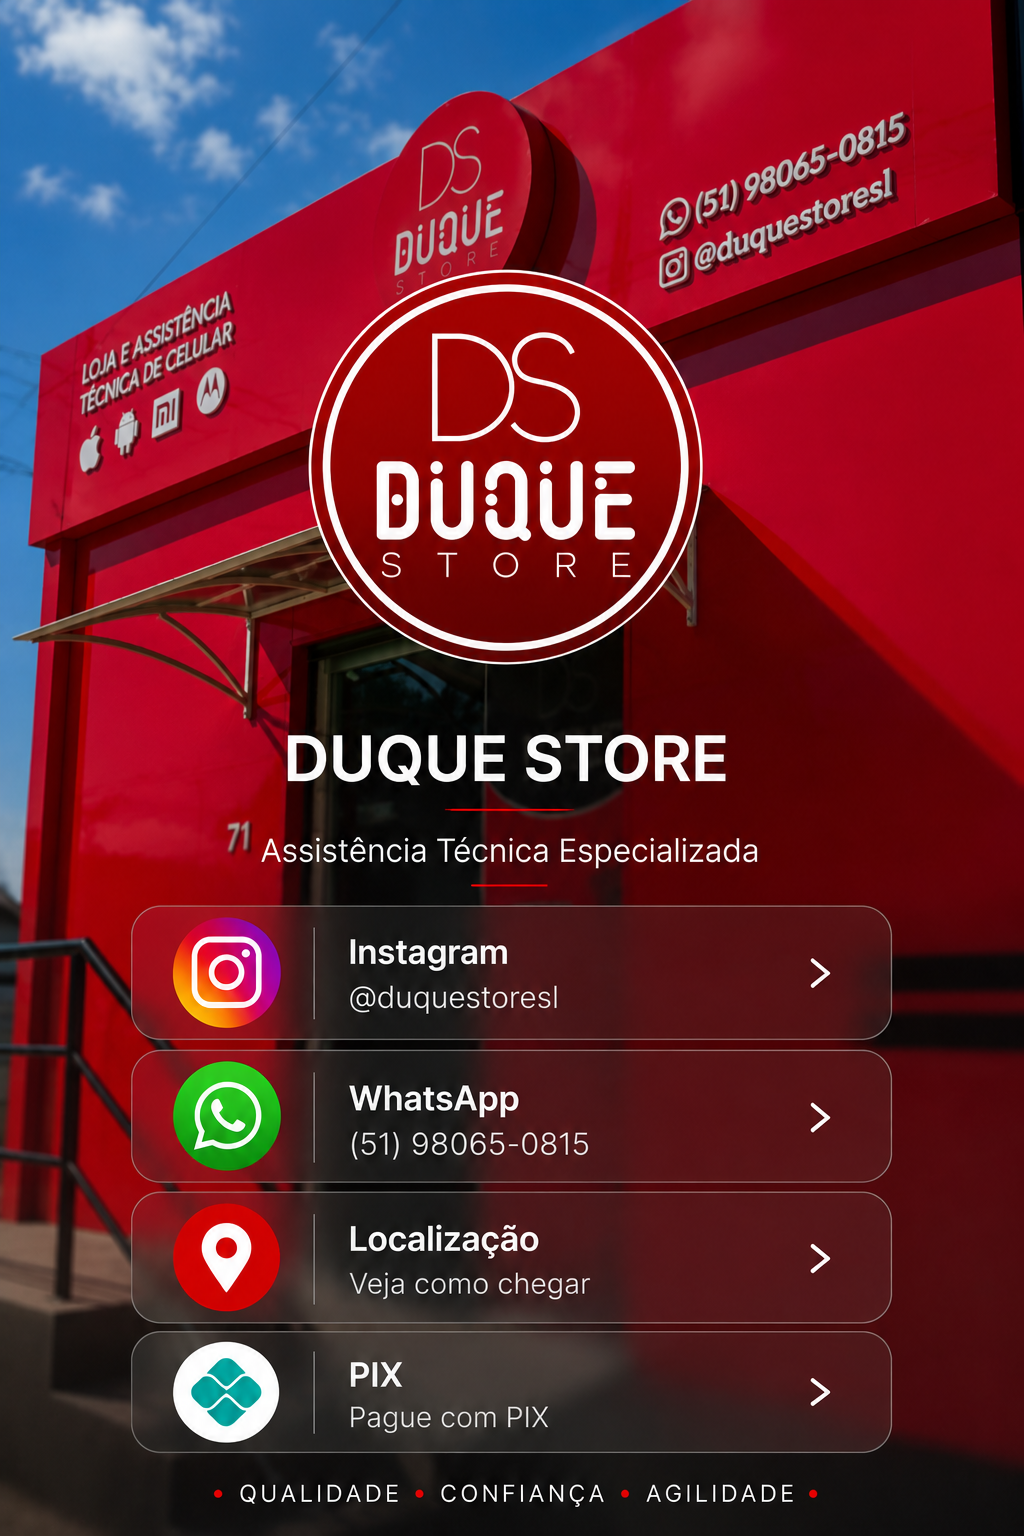
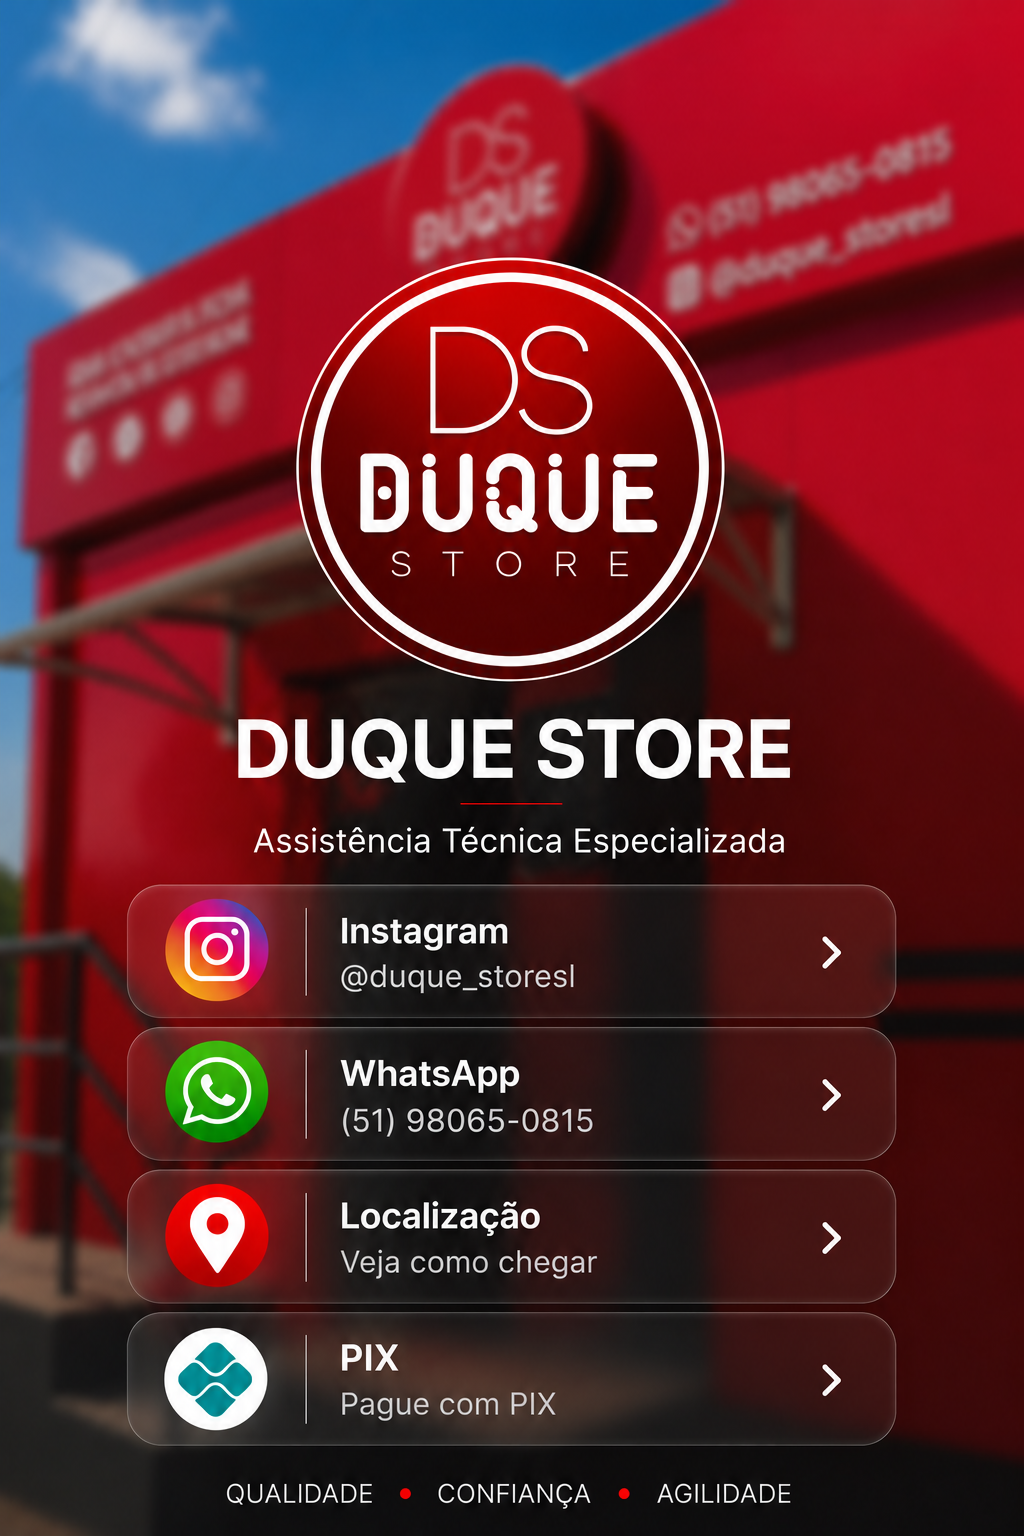
Add files via upload

diff --git a/index.html b/index.html
@@ -3,7 +3,7 @@
 <head>
   <meta charset="UTF-8">
   <meta name="viewport" content="width=device-width, initial-scale=1, viewport-fit=cover">
-  <meta name="theme-color" content="#a4000f">
+  <meta name="theme-color" content="#9d0011">
   <meta name="description" content="Cartão virtual da Duque Store">
   <title>Duque Store</title>
 
@@ -16,7 +16,7 @@
     html, body {
       margin: 0;
       min-height: 100%;
-      background: #100002;
+      background: #120003;
       font-family: Arial, Helvetica, sans-serif;
     }
 
@@ -26,7 +26,7 @@
       align-items: flex-start;
     }
 
-    .cartao {
+    .card {
       position: relative;
       width: min(100vw, 768px);
       overflow: hidden;
@@ -34,109 +34,86 @@
       box-shadow: 0 0 45px rgba(0,0,0,.55);
     }
 
-    .cartao img {
+    .card img {
+      display: block;
       width: 100%;
       height: auto;
-      display: block;
       user-select: none;
       -webkit-user-drag: none;
     }
 
-    .botao {
+    .hotspot {
       position: absolute;
-      left: 12.8%;
-      width: 74.4%;
+      left: 12.3%;
+      width: 75.4%;
       border-radius: 24px;
-      cursor: pointer;
       text-decoration: none;
+      cursor: pointer;
       outline: none;
     }
 
-    .botao:focus-visible {
-      box-shadow: 0 0 0 4px rgba(255,255,255,.95);
+    .hotspot:hover {
+      background: rgba(255,255,255,.05);
     }
 
-    .botao:active {
-      background: rgba(255,255,255,.10);
+    .hotspot:active {
+      background: rgba(255,255,255,.12);
     }
 
-    /* Áreas clicáveis alinhadas aos quatro cartões */
-    .instagram { top: 59.1%; height: 9.1%; }
-    .whatsapp  { top: 68.6%; height: 9.1%; }
-    .local     { top: 78.0%; height: 9.1%; }
-    .pix       { top: 87.4%; height: 8.6%; }
-
-    .aviso {
-      position: fixed;
-      left: 50%;
-      bottom: 18px;
-      transform: translateX(-50%) translateY(20px);
-      background: rgba(0,0,0,.88);
-      color: white;
-      padding: 11px 16px;
-      border-radius: 999px;
-      font-size: 14px;
-      opacity: 0;
-      pointer-events: none;
-      transition: .2s ease;
-      z-index: 10;
-      white-space: nowrap;
+    .hotspot:focus-visible {
+      box-shadow: inset 0 0 0 4px rgba(255,255,255,.95);
     }
 
-    .aviso.mostrar {
-      opacity: 1;
-      transform: translateX(-50%) translateY(0);
-    }
+    /* Áreas clicáveis alinhadas com os quatro botões da arte */
+    .instagram { top: 57.55%; height: 8.55%; }
+    .whatsapp  { top: 66.65%; height: 8.55%; }
+    .location  { top: 75.75%; height: 8.65%; }
+    .pix       { top: 84.95%; height: 8.60%; }
 
     @media (min-width: 769px) {
       body {
         padding: 24px 0;
       }
 
-      .cartao {
+      .card {
         border-radius: 24px;
       }
     }
   </style>
 </head>
-
 <body>
-  <main class="cartao" aria-label="Cartão virtual Duque Store">
+  <main class="card" aria-label="Cartão virtual da Duque Store">
     <img src="cartao-duque-store.png" alt="Cartão virtual da Duque Store">
 
-    <a class="botao instagram"
-       href="https://www.instagram.com/duquestoresl/"
-       target="_blank"
-       rel="noopener noreferrer"
-       aria-label="Abrir Instagram da Duque Store"></a>
+    <a
+      class="hotspot instagram"
+      href="https://www.instagram.com/duque_storesl/"
+      target="_blank"
+      rel="noopener noreferrer"
+      aria-label="Abrir Instagram da Duque Store">
+    </a>
 
-    <a class="botao whatsapp"
-       href="https://wa.me/5551980650815"
-       target="_blank"
-       rel="noopener noreferrer"
-       aria-label="Abrir WhatsApp da Duque Store"></a>
+    <a
+      class="hotspot whatsapp"
+      href="https://wa.me/5551980650815"
+      target="_blank"
+      rel="noopener noreferrer"
+      aria-label="Abrir WhatsApp da Duque Store">
+    </a>
 
-    <a class="botao local"
-       href="https://www.google.com/maps/search/?api=1&query=Duque+Store%2C+Rua+Fernando+Ribeiro+de+Castro%2C+71%2C+Duque+de+Caxias%2C+S%C3%A3o+Leopoldo%2C+RS%2C+93037-300"
-       target="_blank"
-       rel="noopener noreferrer"
-       aria-label="Abrir localização da Duque Store"></a>
+    <a
+      class="hotspot location"
+      href="https://www.google.com/maps/search/?api=1&query=Duque+Store%2C+Rua+Fernando+Ribeiro+de+Castro%2C+71%2C+Duque+de+Caxias%2C+S%C3%A3o+Leopoldo%2C+RS%2C+93037-300"
+      target="_blank"
+      rel="noopener noreferrer"
+      aria-label="Abrir localização da Duque Store">
+    </a>
 
-    <a class="botao pix"
-       href="pix_duque_store.html"
-       aria-label="Abrir página de pagamento PIX"></a>
+    <a
+      class="hotspot pix"
+      href="pix_duque_store.html"
+      aria-label="Abrir página PIX da Duque Store">
+    </a>
   </main>
-
-  <div id="aviso" class="aviso">Abrindo…</div>
-
-  <script>
-    const aviso = document.getElementById("aviso");
-    document.querySelectorAll(".botao").forEach(botao => {
-      botao.addEventListener("click", () => {
-        aviso.classList.add("mostrar");
-        setTimeout(() => aviso.classList.remove("mostrar"), 1200);
-      });
-    });
-  </script>
 </body>
 </html>